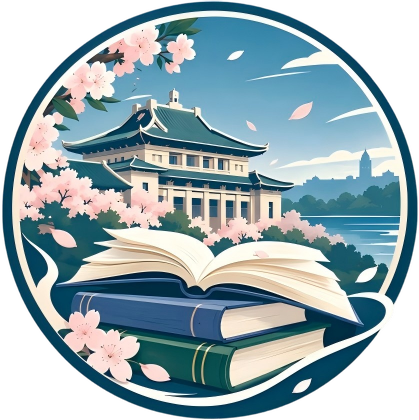
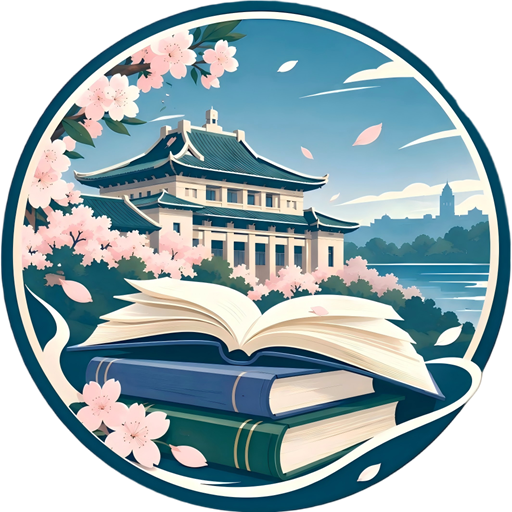
替换新版 App 图标（1064 高清原图居中裁方缩至 512）+ 图标/海报路由加 1 小时浏览器缓存

diff --git a/server/src/index.js b/server/src/index.js
@@ -71,8 +71,8 @@ app.get('/dl/latest', (req, res) => {
   res.sendFile(apkPath);
 });
 // 推广物料：落地页引用的 App 图标与邀请海报（随代码分发）
-app.get('/appicon.png', (req, res) => res.sendFile(path.join(__dirname, 'appicon.png')));
-app.get('/poster.png', (req, res) => res.sendFile(path.join(__dirname, 'poster.png')));
+app.get('/appicon.png', (req, res) => { res.setHeader('Cache-Control', 'public, max-age=3600'); res.sendFile(path.join(__dirname, 'appicon.png')); });
+app.get('/poster.png', (req, res) => { res.setHeader('Cache-Control', 'public, max-age=3600'); res.sendFile(path.join(__dirname, 'poster.png')); });
 
 app.get('/d', (req, res) => {
   const { getSettings } = require('./db');
